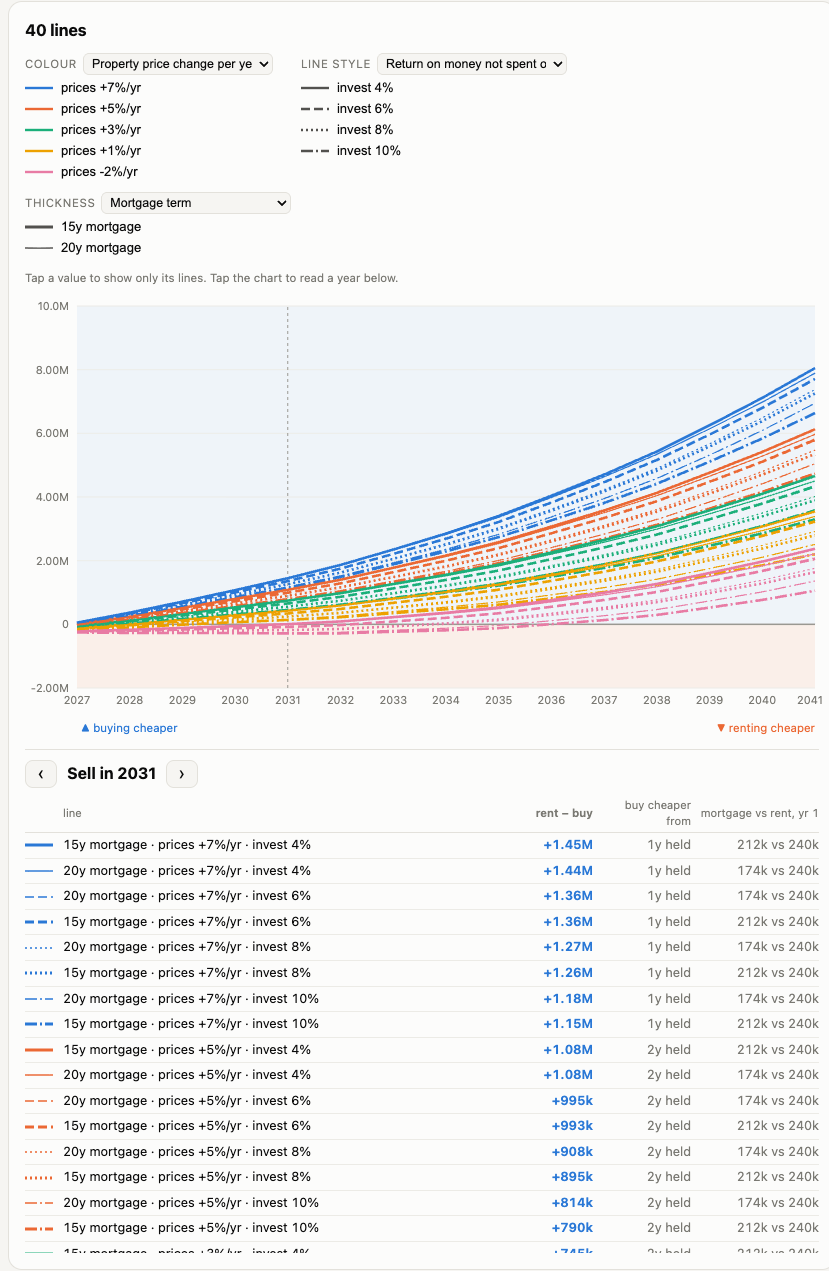
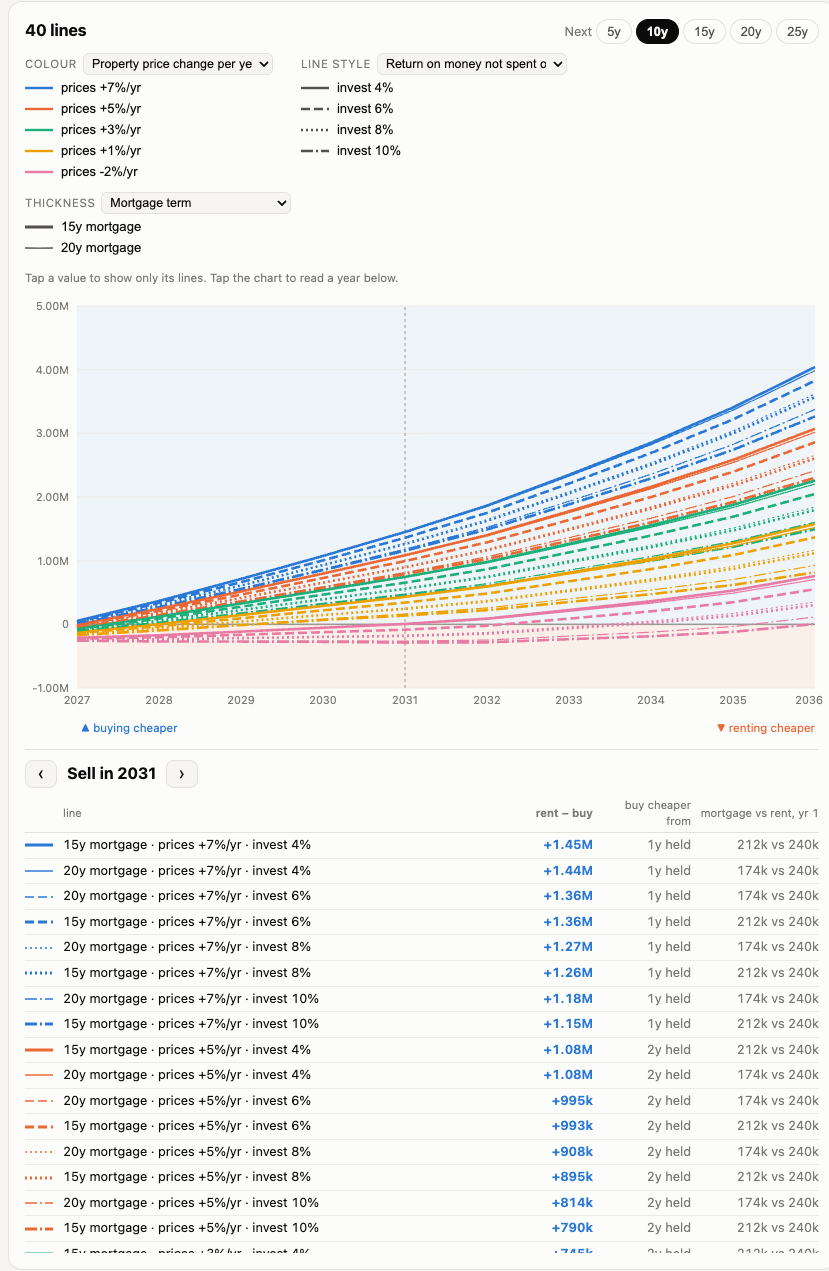
Horizon chips on the graph (5-25y), default 10 years
Claude-Session: https://claude.ai/code/session_01SGeUVgQihc8iY5aYodmd9q

diff --git a/src/App.tsx b/src/App.tsx
@@ -157,6 +157,14 @@ function Graph({ c, setC, res }: { c: Config; setC: (f: (o: Config) => Config) =
           {styled.length} line{styled.length > 1 ? 's' : ''}
         </h2>
         {res.total > MAX_LINES && <span className="warn small">showing the first {MAX_LINES} of {res.total} combinations</span>}
+        <div className="horizon" role="radiogroup" aria-label="Horizon">
+          <span className="muted small">Next</span>
+          {[5, 10, 15, 20, 25].map((h) => (
+            <button key={h} className={c.horizon === h ? 'chip on' : 'chip'} onClick={() => setC((o) => ({ ...o, horizon: h }))}>
+              {h}y
+            </button>
+          ))}
+        </div>
       </div>
 
       {varying.length > 0 && (
@@ -372,22 +380,6 @@ function ConfigForm({ c, setC, total }: { c: Config; setC: (f: (o: Config) => Co
             {FIELDS.filter((f) => f.group === g).map((f) => (
               <ListField key={f.key} label={f.label} hint={f.hint} kind={f.kind} values={c.lists[f.key]} onChange={(v) => setList(f.key, v)} />
             ))}
-            {g === 'Timing' && (
-              <label className="field">
-                <span className="field-l">Show sell years up to</span>
-                <span className="field-in">
-                  <input
-                    inputMode="numeric"
-                    defaultValue={c.horizon}
-                    onChange={(e) => {
-                      const n = Math.round(Number(e.target.value));
-                      if (n >= 1 && n <= 35) setC((o) => ({ ...o, horizon: n }));
-                    }}
-                  />
-                  <span className="unit">yrs held</span>
-                </span>
-              </label>
-            )}
             {g === 'Market' && (
               <div className="span2">
                 <Checks<ScenarioKey>

diff --git a/src/styles.css b/src/styles.css
@@ -224,3 +224,5 @@ h2 { font-size: 1.02rem; margin: 0 0 4px; letter-spacing: -0.01em; }
 .em-col { display: flex; flex-direction: column; gap: 8px; }
 .em-h { font-weight: 600; font-size: 0.85rem; }
 .notes p { font-size: 0.82rem; color: var(--text2); margin: 6px 0; }
+.horizon { margin-left: auto; display: flex; align-items: center; gap: 4px; }
+.horizon .chip { padding: 4px 10px; font-size: 0.8rem; }

diff --git a/src/config.ts b/src/config.ts
@@ -103,7 +103,7 @@ export const DEFAULT_CONFIG: Config = {
   emFees: Object.fromEntries(
     EMIRATES.map((e) => [e, Object.fromEntries(EM_FIELDS.map((f) => [f.key, ({ ...P, ...PRESETS[e] } as Record<string, number>)[f.key]]))]),
   ) as Record<Emirate, Record<string, number>>,
-  horizon: 15,
+  horizon: 10,
   colorBy: 'priceGrowth',
   styleBy: 'investReturn',
   widthBy: 'downPct',
